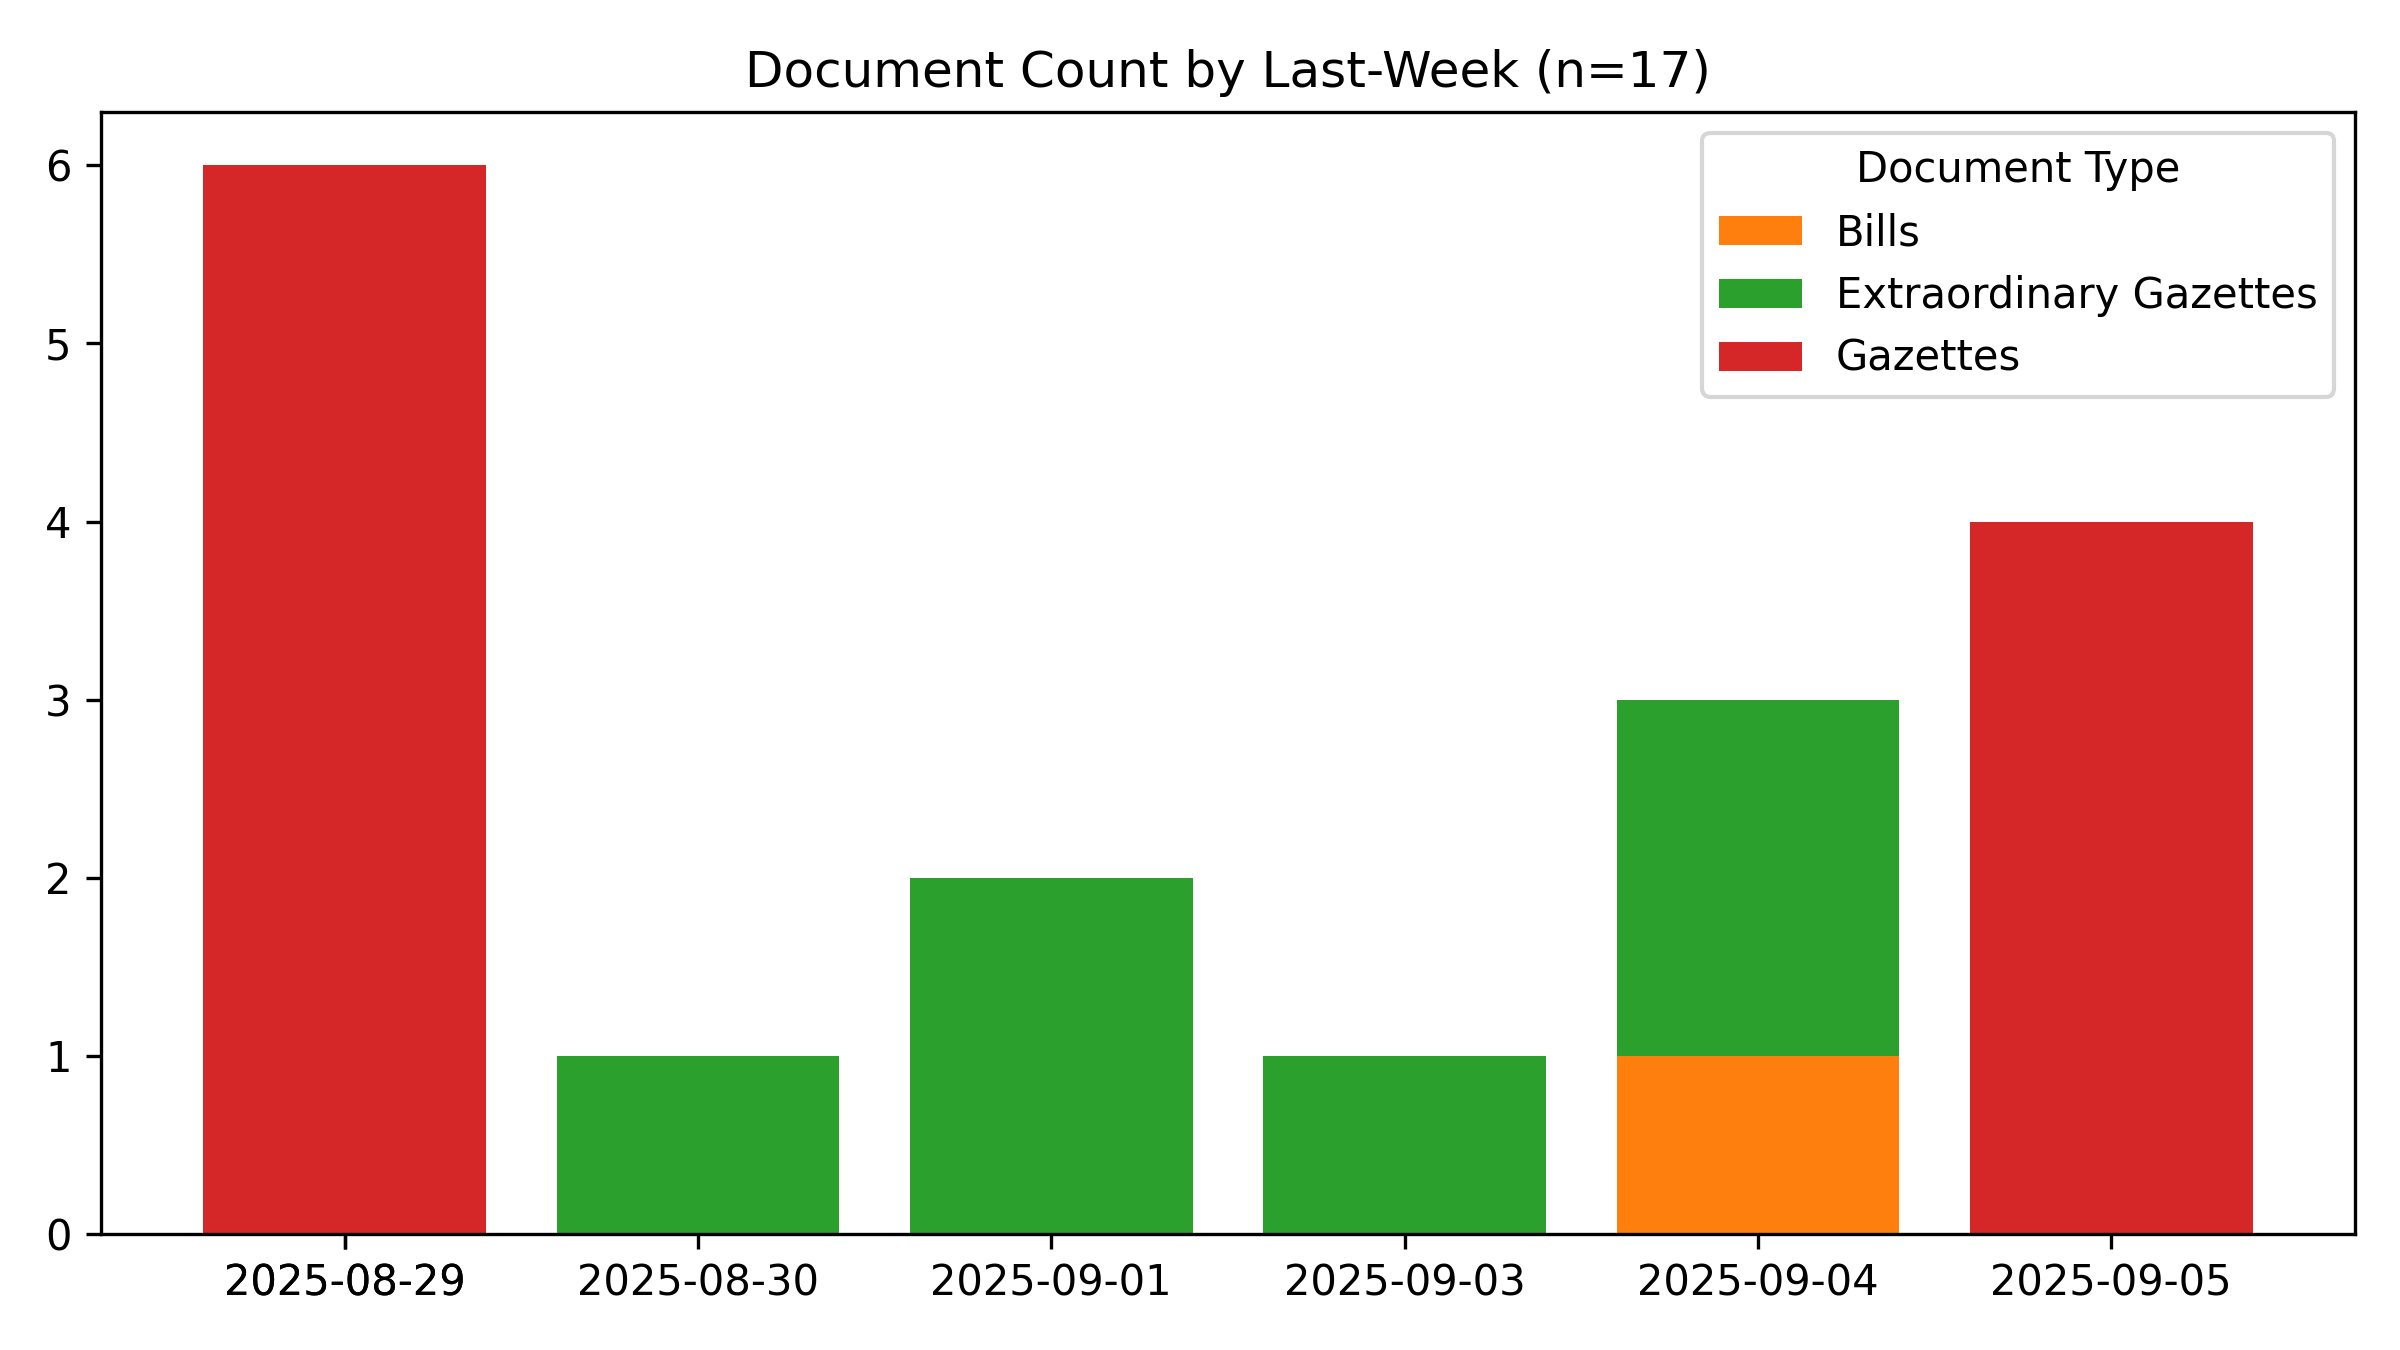
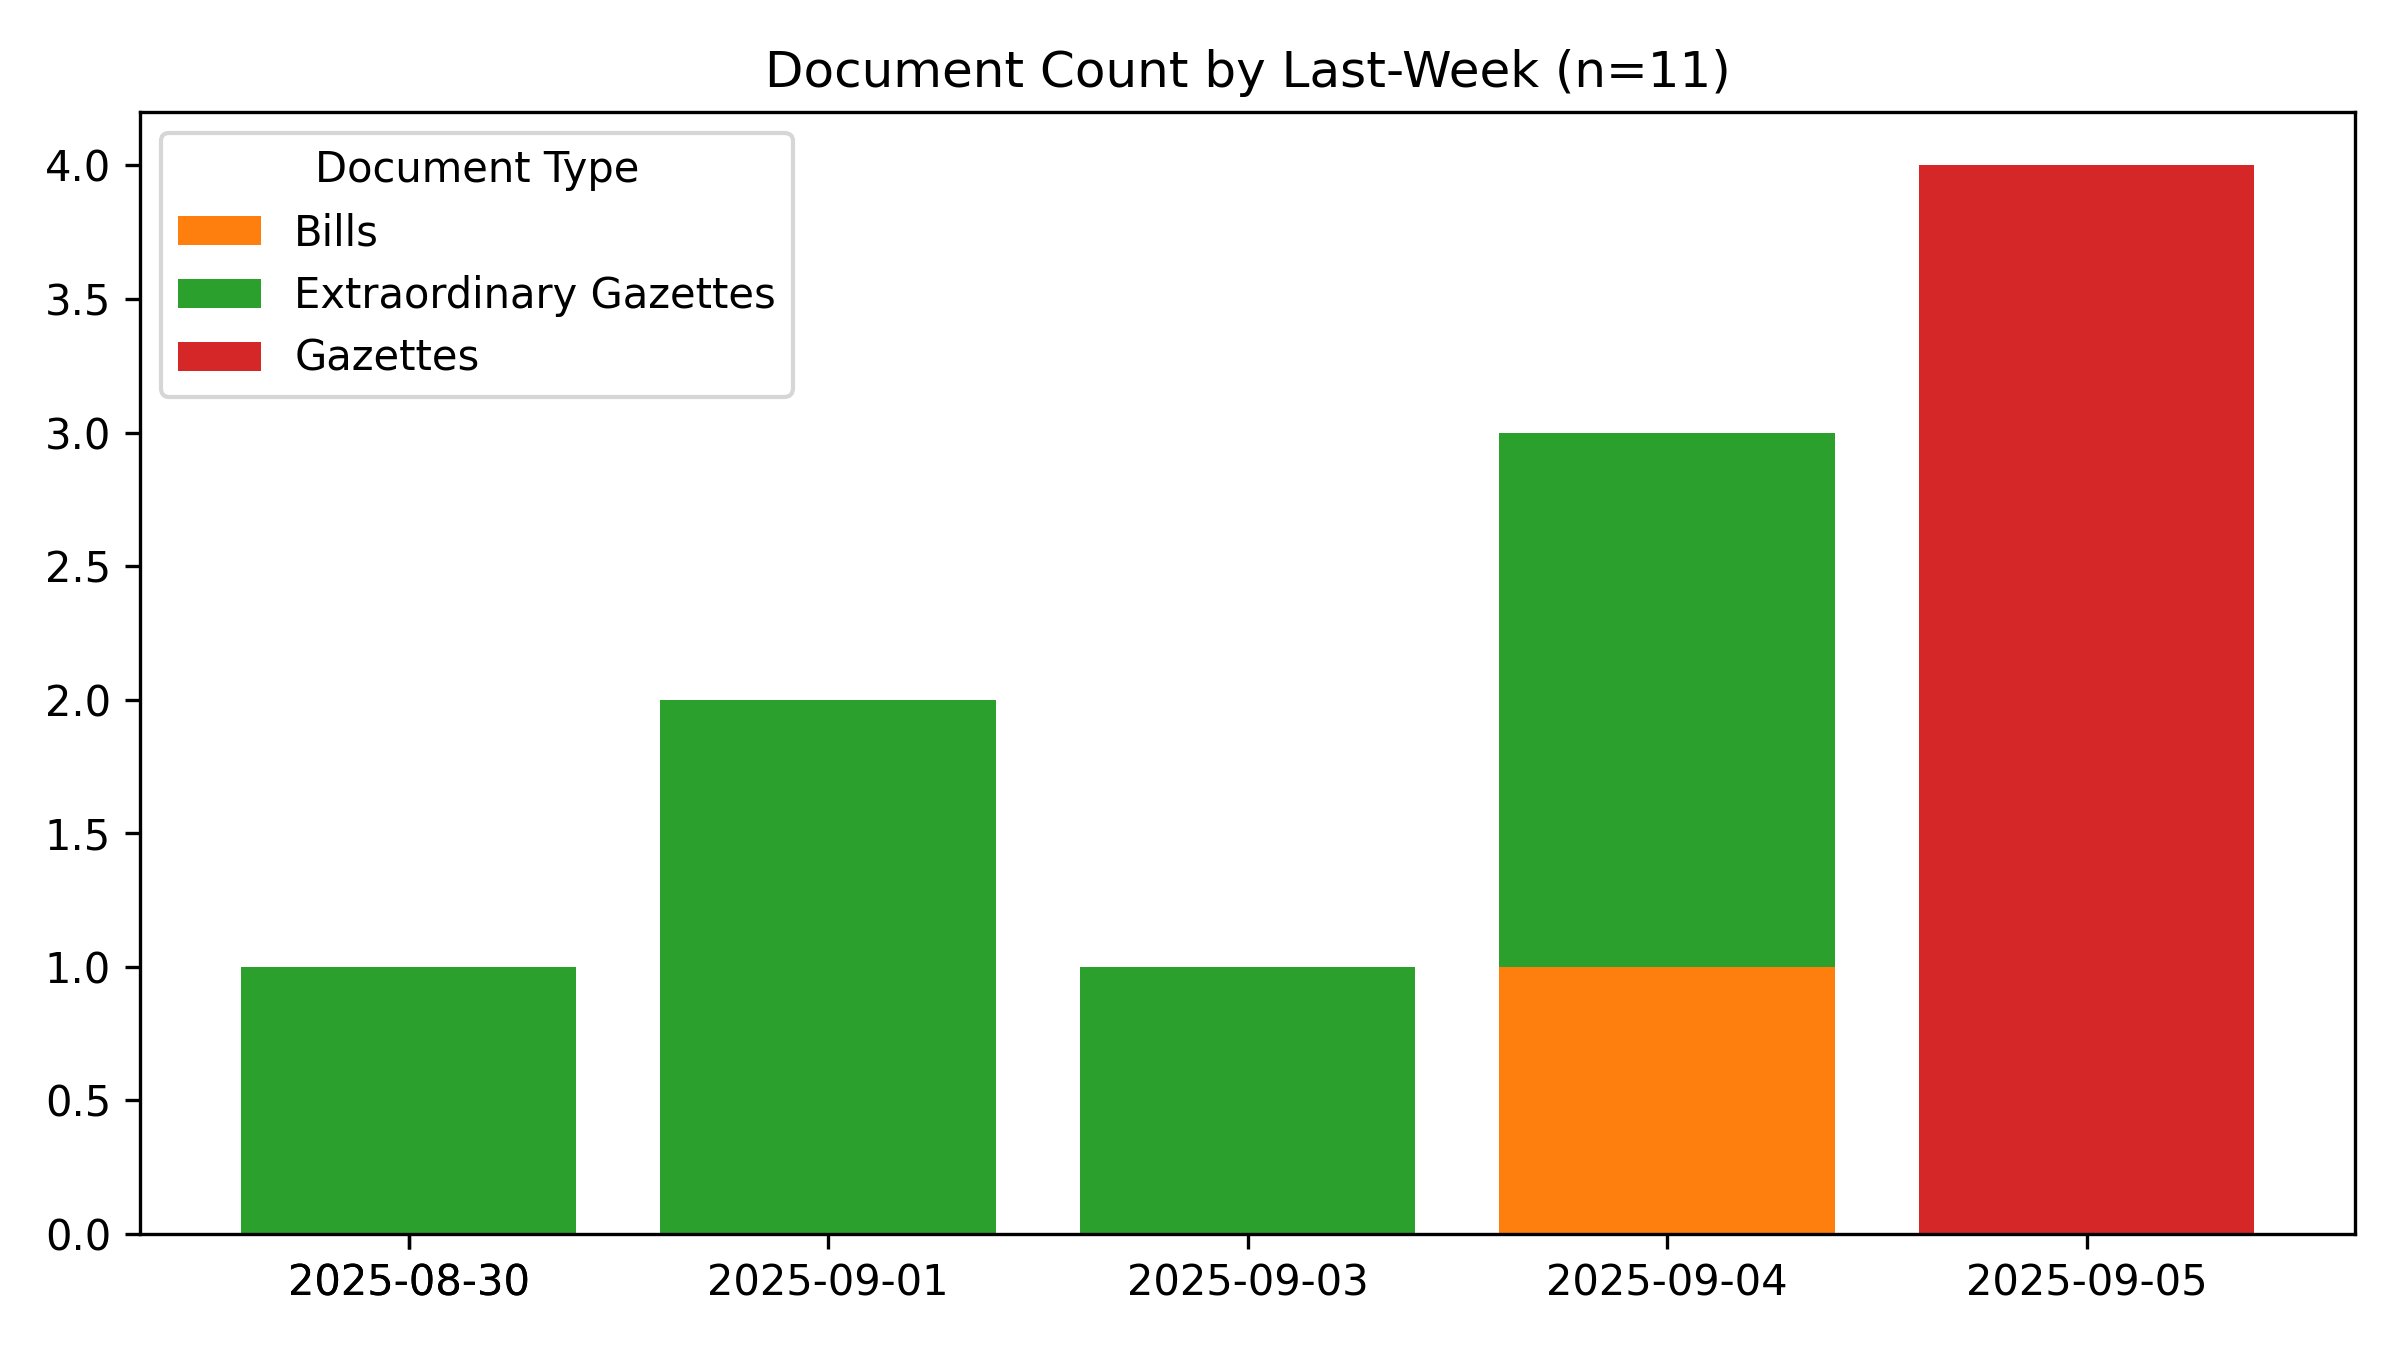
🤖 [build_readme.yml] 2025-09-06-0014

diff --git a/README.md b/README.md
@@ -1,6 +1,6 @@
 # #SriLanka 🇱🇰 - Legal Documents #Dataset
 
-*Last Updated **2025-09-06 05:12:51**.*
+*Last Updated **2025-09-06 05:44:45**.*
 
 **44,542** documents (24.3 MB), from 1981-01-22 to 2025-09-05.
 
@@ -54,7 +54,7 @@ For best results, use a desktop browser.
 
 ## Recent Documents (Published during the last 7 days)
 
-**17** Documents
+**11** Documents
 
 - 📢 [2025-09-05] [Legal Section](https://github.com/nuuuwan/lk_legal_docs_data/tree/data_2020s/data/gazettes/2025/2025-09-05-legal-section)
 - 📢 [2025-09-05] [Land Section](https://github.com/nuuuwan/lk_legal_docs_data/tree/data_2020s/data/gazettes/2025/2025-09-05-land-section)
@@ -67,9 +67,3 @@ For best results, use a desktop browser.
 - 🚨 [2025-09-01] [Dept. of Local Governtment- Eastern Province Elected and declared New Vice Chairman of Manmunaipattu Pradeshiya Sabha](https://github.com/nuuuwan/lk_legal_docs_data/tree/data_2020s/data/extra-gazettes/2025/2452-02)
 - 🚨 [2025-09-01] [Sri Lanka Customs - Rates of Exchange with effect from 01.09.2025 to 07.09.2025](https://github.com/nuuuwan/lk_legal_docs_data/tree/data_2020s/data/extra-gazettes/2025/2452-01)
 - 🚨 [2025-08-30] [Land Aquisition - Thissawewawaththa, Nuwaragampalatha Central D/S Division, Anuradhapura District Sec 33](https://github.com/nuuuwan/lk_legal_docs_data/tree/data_2020s/data/extra-gazettes/2025/2451-41)
-- 📢 [2025-08-29] [Legal Section](https://github.com/nuuuwan/lk_legal_docs_data/tree/data_2020s/data/gazettes/2025/2025-08-29-legal-section)
-- 📢 [2025-08-29] [IV (B) - Local Government](https://github.com/nuuuwan/lk_legal_docs_data/tree/data_2020s/data/gazettes/2025/2025-08-29-iv-b-local-government)
-- 📢 [2025-08-29] [(III) - TRADE MARKS AND PATENT NOTICES](https://github.com/nuuuwan/lk_legal_docs_data/tree/data_2020s/data/gazettes/2025/2025-08-29-iii-trade-marks-and-patent-notices)
-- 📢 [2025-08-29] [(IIB) - Advertising](https://github.com/nuuuwan/lk_legal_docs_data/tree/data_2020s/data/gazettes/2025/2025-08-29-iib-advertising)
-- 📢 [2025-08-29] [(IIA) - Advertising](https://github.com/nuuuwan/lk_legal_docs_data/tree/data_2020s/data/gazettes/2025/2025-08-29-iia-advertising)
-- 📢 [2025-08-29] [(I) - General](https://github.com/nuuuwan/lk_legal_docs_data/tree/data_2020s/data/gazettes/2025/2025-08-29-i-general)
